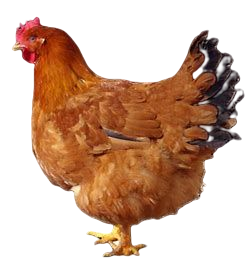
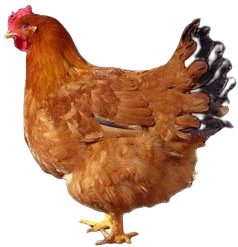
坤坤打篮球重新抠图，并修改了坤坤图片的大小

Changed region(s): [[0.0, 0.0, 1.0, 1.0], [0.4706, 0.5385, 0.5294, 0.5668], [0.5294, 0.5668, 0.5588, 0.5951]]

diff --git a/KunKunPlayBasketBall/kun.py b/KunKunPlayBasketBall/kun.py
@@ -13,7 +13,7 @@ class Kun(Sprite):
         
         # 加载坤坤图像并获取外接矩形
         self.image = pygame.image.load('KunKunPlayBasketBall/images/kunkun.png')
-        self.image = pygame.transform.smoothscale(self.image, (100, 100))
+        self.image = pygame.transform.smoothscale(self.image, (66, 100))
         self.rect = self.image.get_rect()
         # 最初位置位于屏幕底部中央
         self.rect.midbottom = self.screen_rect.midbottom
